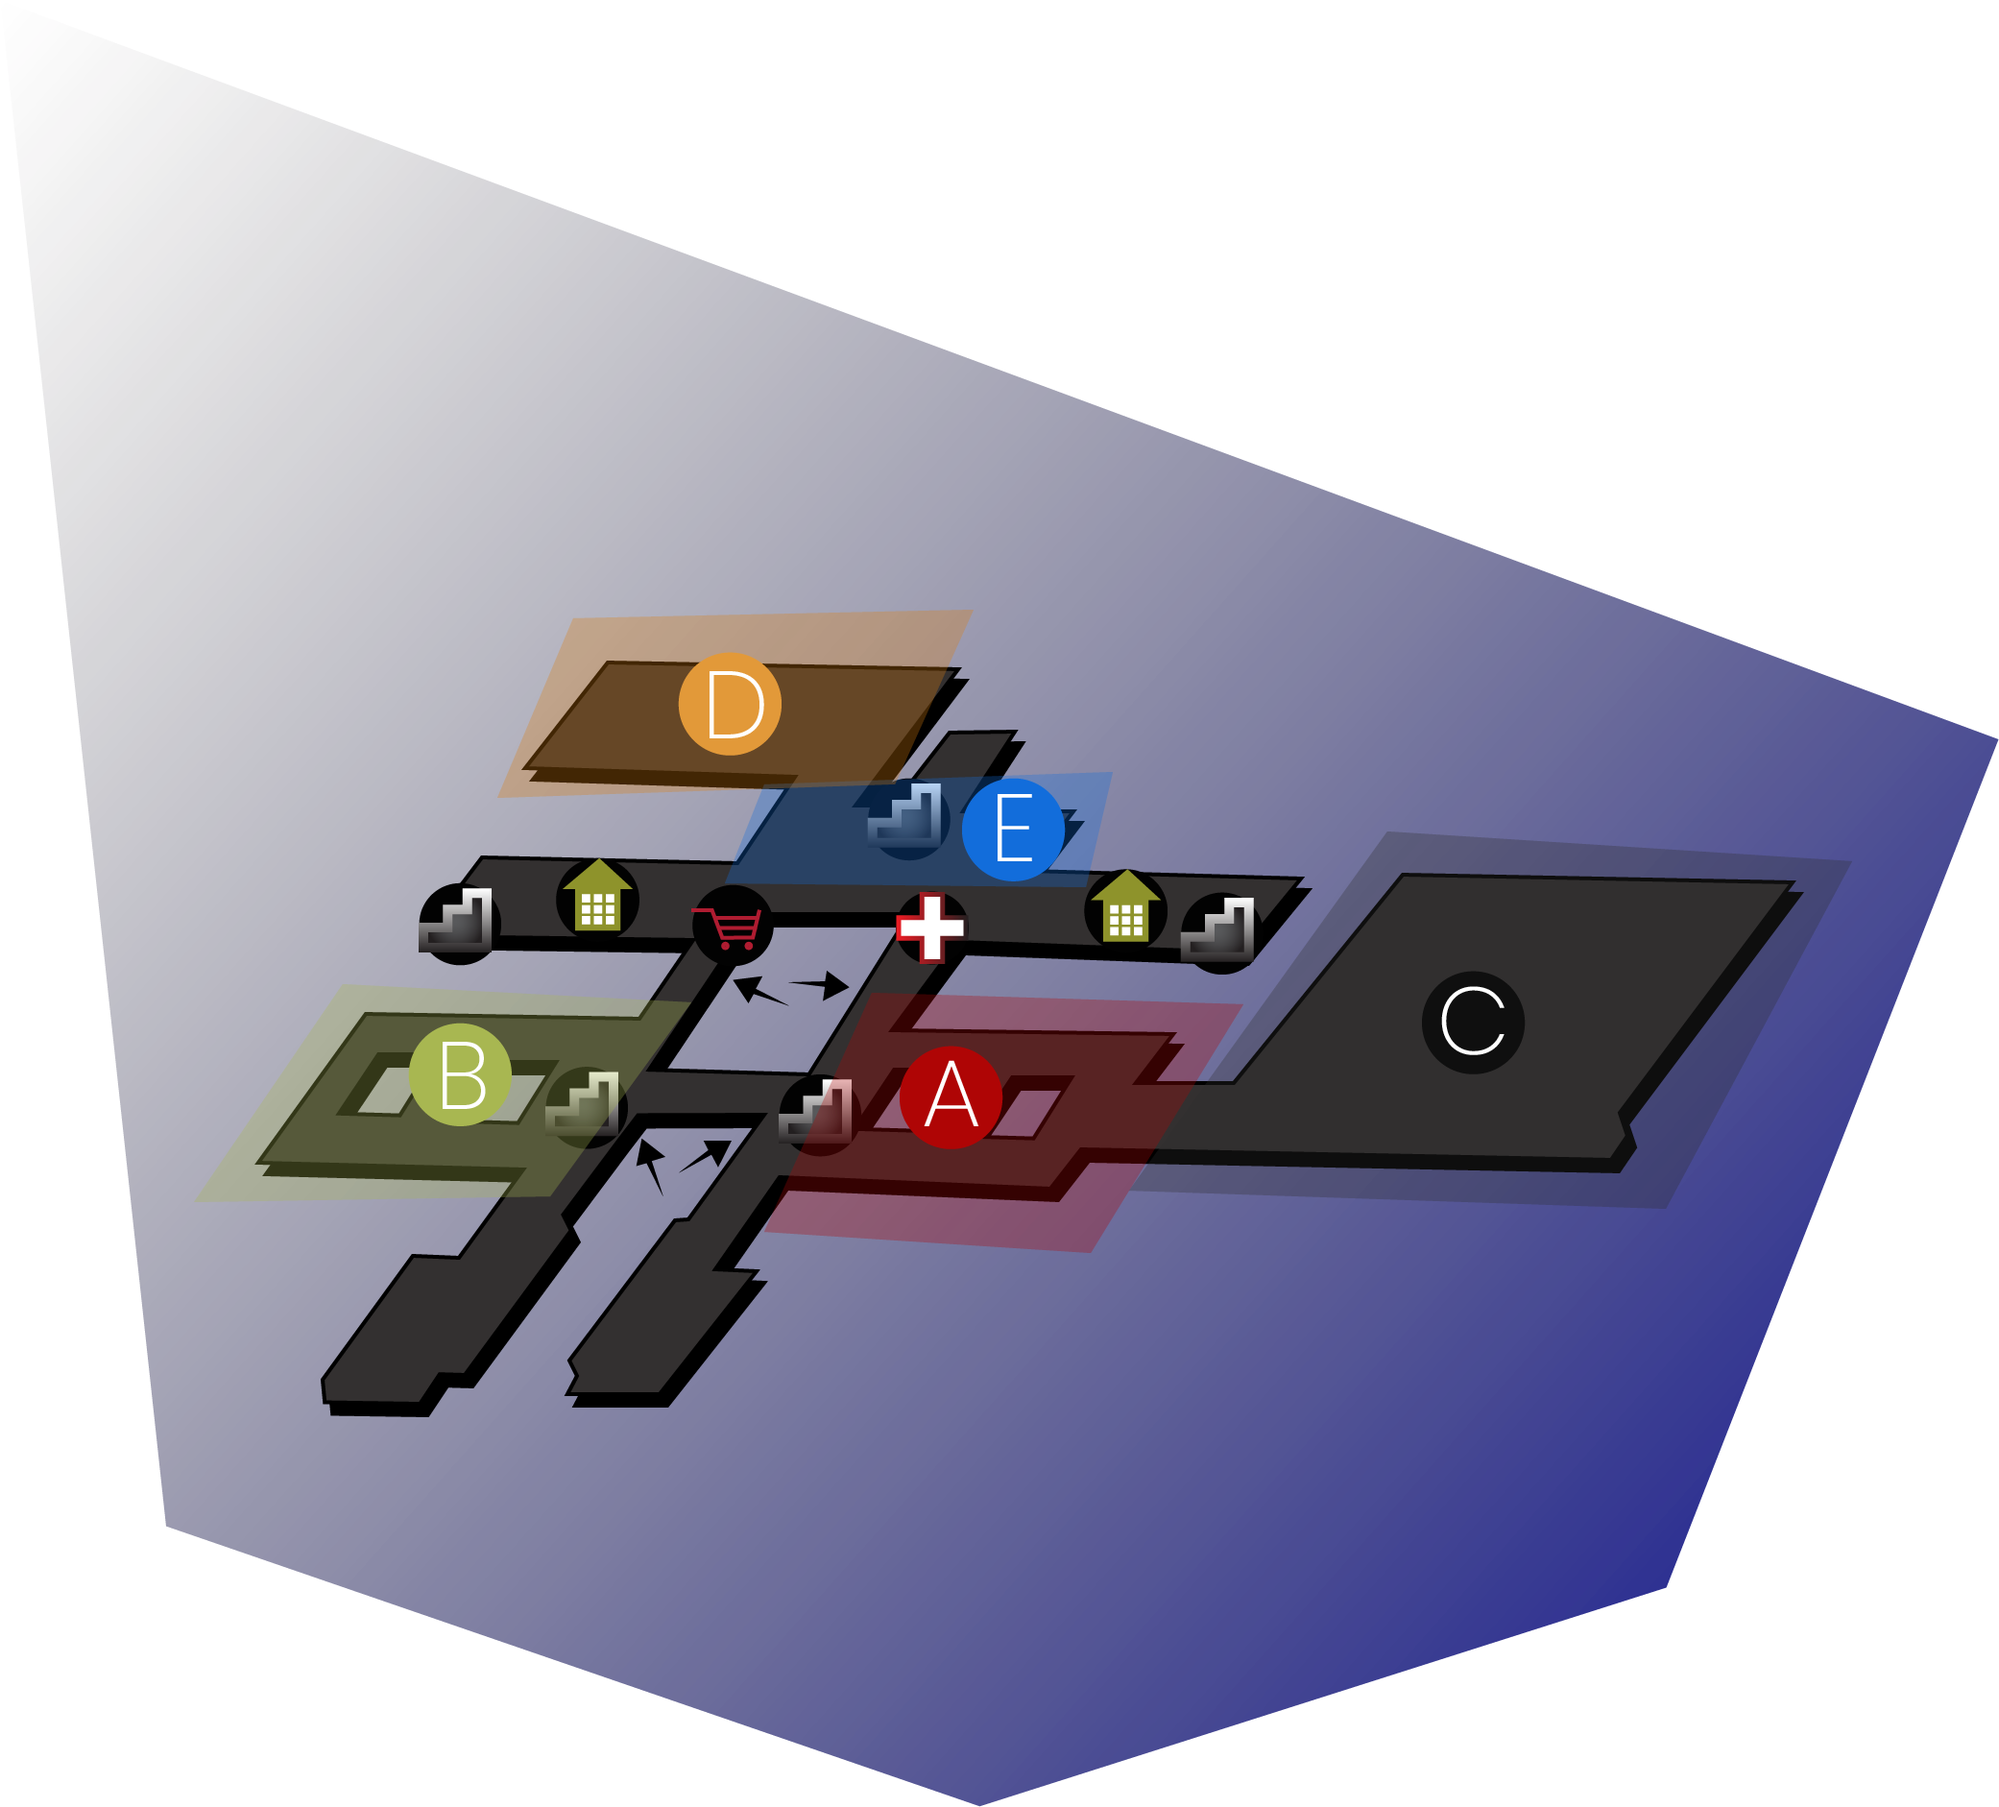
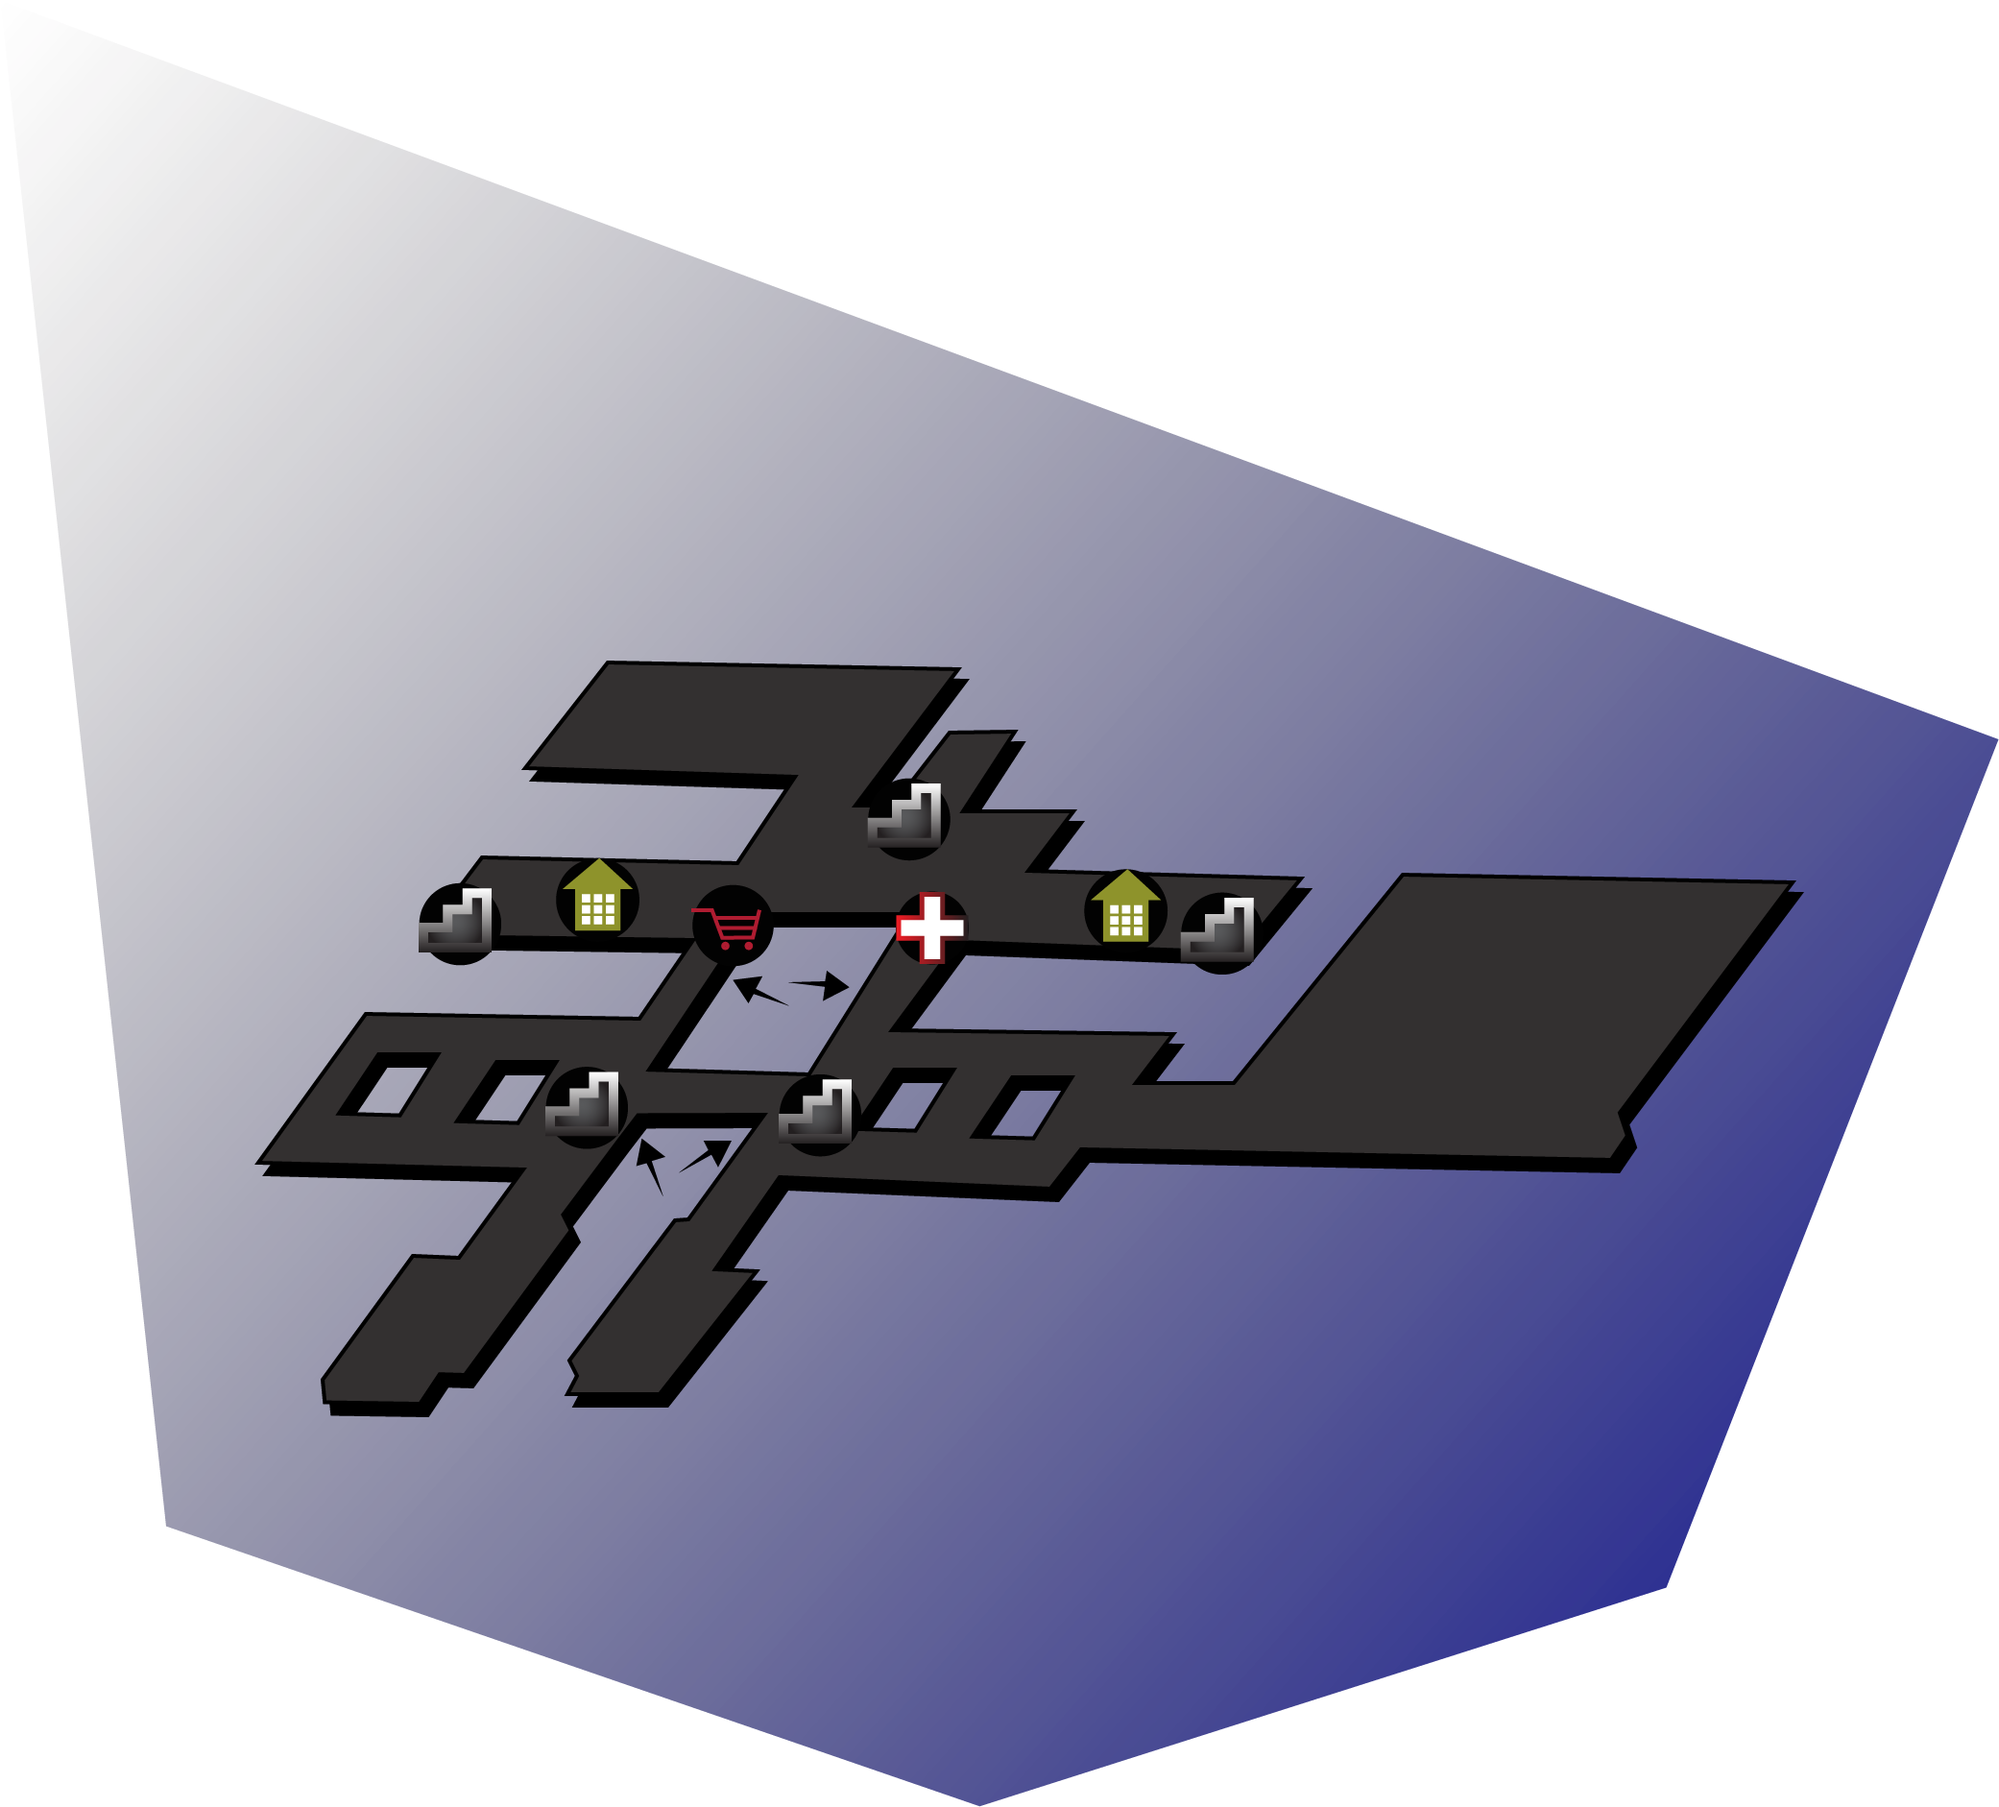
Animated swap

diff --git a/tthkmap/source/SIDE/style.css b/tthkmap/source/SIDE/style.css
@@ -1,3 +1,8 @@
+.body{
+  margin-left: 250px;
+  width: 100%;
+}
+
 .Floor1, .Floor2{
   position: absolute;
 }
@@ -6,12 +11,14 @@
   opacity: 100;
   margin-top: 0%;
   transition: 1s;
+  z-index: 2;
 }
 
 .Floor1.hideIt{
   opacity: 0;
   margin-top: 10%;
   transition: 1s;
+  z-index: 1;
 }
 
 .Floor2{
@@ -23,9 +30,92 @@
   opacity: 100;
   margin-top: 0%;
   transition: 1s;
+  z-index: 3;
 }
 
 .body.zoom{
   transform: scale(1.5);
   transition: 1s;
+}
+
+
+.Floor1, .Floor2{
+  position: absolute;
+}
+
+.switchButton{
+  font-size: 72px;
+  z-index: 10;
+  border: none;
+  background-color: #3d3d5d;
+  color: white;
+}
+
+.DBLOCK, .EBLOCK, .ABLOCK, .BLOCK, .CBLOCK{
+  position: absolute;
+  transform-origin:center;
+  transform: scale(1);
+  transition: 1s;
+}
+.DBLOCK:hover, .EBLOCK:hover, .ABLOCK:hover, .BLOCK:hover, .CBLOCK:hover{
+  transform-origin:center;
+  transform: scale(1.3);
+  transition: 1s;
+}
+.DBLOCK {
+    top: 235px;
+    left: 185px;
+    width: 195px;
+}
+.EBLOCK {
+    top: 295px;
+    left: 264px;
+    width: 150px;
+}
+.CBLOCK {
+    top: 313px;
+    left: 415px;
+    width: 300px;
+}
+.ABLOCK {
+    top: 376px;
+    left: 280px;
+    width: 215px;
+}
+.BLOCK {
+    top: 374px;
+    left: 60px;
+    width: 225px;
+}
+
+.DBLOCK2, .EBLOCK2, .ABLOCK2, .BLOCK2, .CBLOCK2{
+  position: absolute;
+  transform-origin:center;
+  transform: scale(1);
+  transition: 1s;
+}
+.DBLOCK2:hover, .EBLOCK2:hover, .ABLOCK2:hover, .BLOCK2:hover{
+  transform-origin:center;
+  transform: scale(1.3);
+  transition: 1s;
+}
+.DBLOCK2 {
+    top: 85;
+    left: 280;
+    width: 195px;
+}
+.EBLOCK2 {
+    top: 145px;
+    left: 380;
+    width: 150px;
+}
+.ABLOCK2 {
+    top: 236px;
+    left: 380;
+    width: 215px;
+}
+.BLOCK2 {
+    top: 235px;
+    left: 135;
+    width: 225px;
 }

diff --git a/tthkmap/source/SIDE/index.html b/tthkmap/source/SIDE/index.html
@@ -25,15 +25,27 @@ function zoom(){
 
 
 <link rel="stylesheet" type="text/css" href="style.css">
+  <button onclick="switchMap()" class="switchButton" value="first">Change Floor</button>
 <body class="body">
-  <button onclick="switchMap()" class="switchButton" value="first">Swap</button>
-  <button onclick="zoom()">Zoom</button>
   <div class="Container">
     <div class="Floor1">
       <img src="FIRST_SIDE.png" alt="background" style="width: 750px;">
+      <div class="Front">
+        <img src="DBACK.png" width="45%" class="DBLOCK"/>
+        <img src="EBACK.png" width="45%" class="EBLOCK"/>
+        <img src="CBACK.png" width="45%" class="CBLOCK"/>
+        <img src="ABACK.png" width="45%" class="ABLOCK"/>
+        <img src="BLOCK.png" width="45%" class="BLOCK"/>
+      </div>
     </div>
     <div class="Floor2">
       <img src="SECOND_SIDE.png" alt="background" style="width: 750px;">
+      <div class="Front">
+        <img src="DBACK.png" width="45%" class="DBLOCK2"/>
+        <img src="EBACK.png" width="45%" class="EBLOCK2"/>
+        <img src="ABACK.png" width="45%" class="ABLOCK2"/>
+        <img src="BLOCK.png" width="45%" class="BLOCK2"/>
+      </div>
     </div>
   </div>
 </body>
